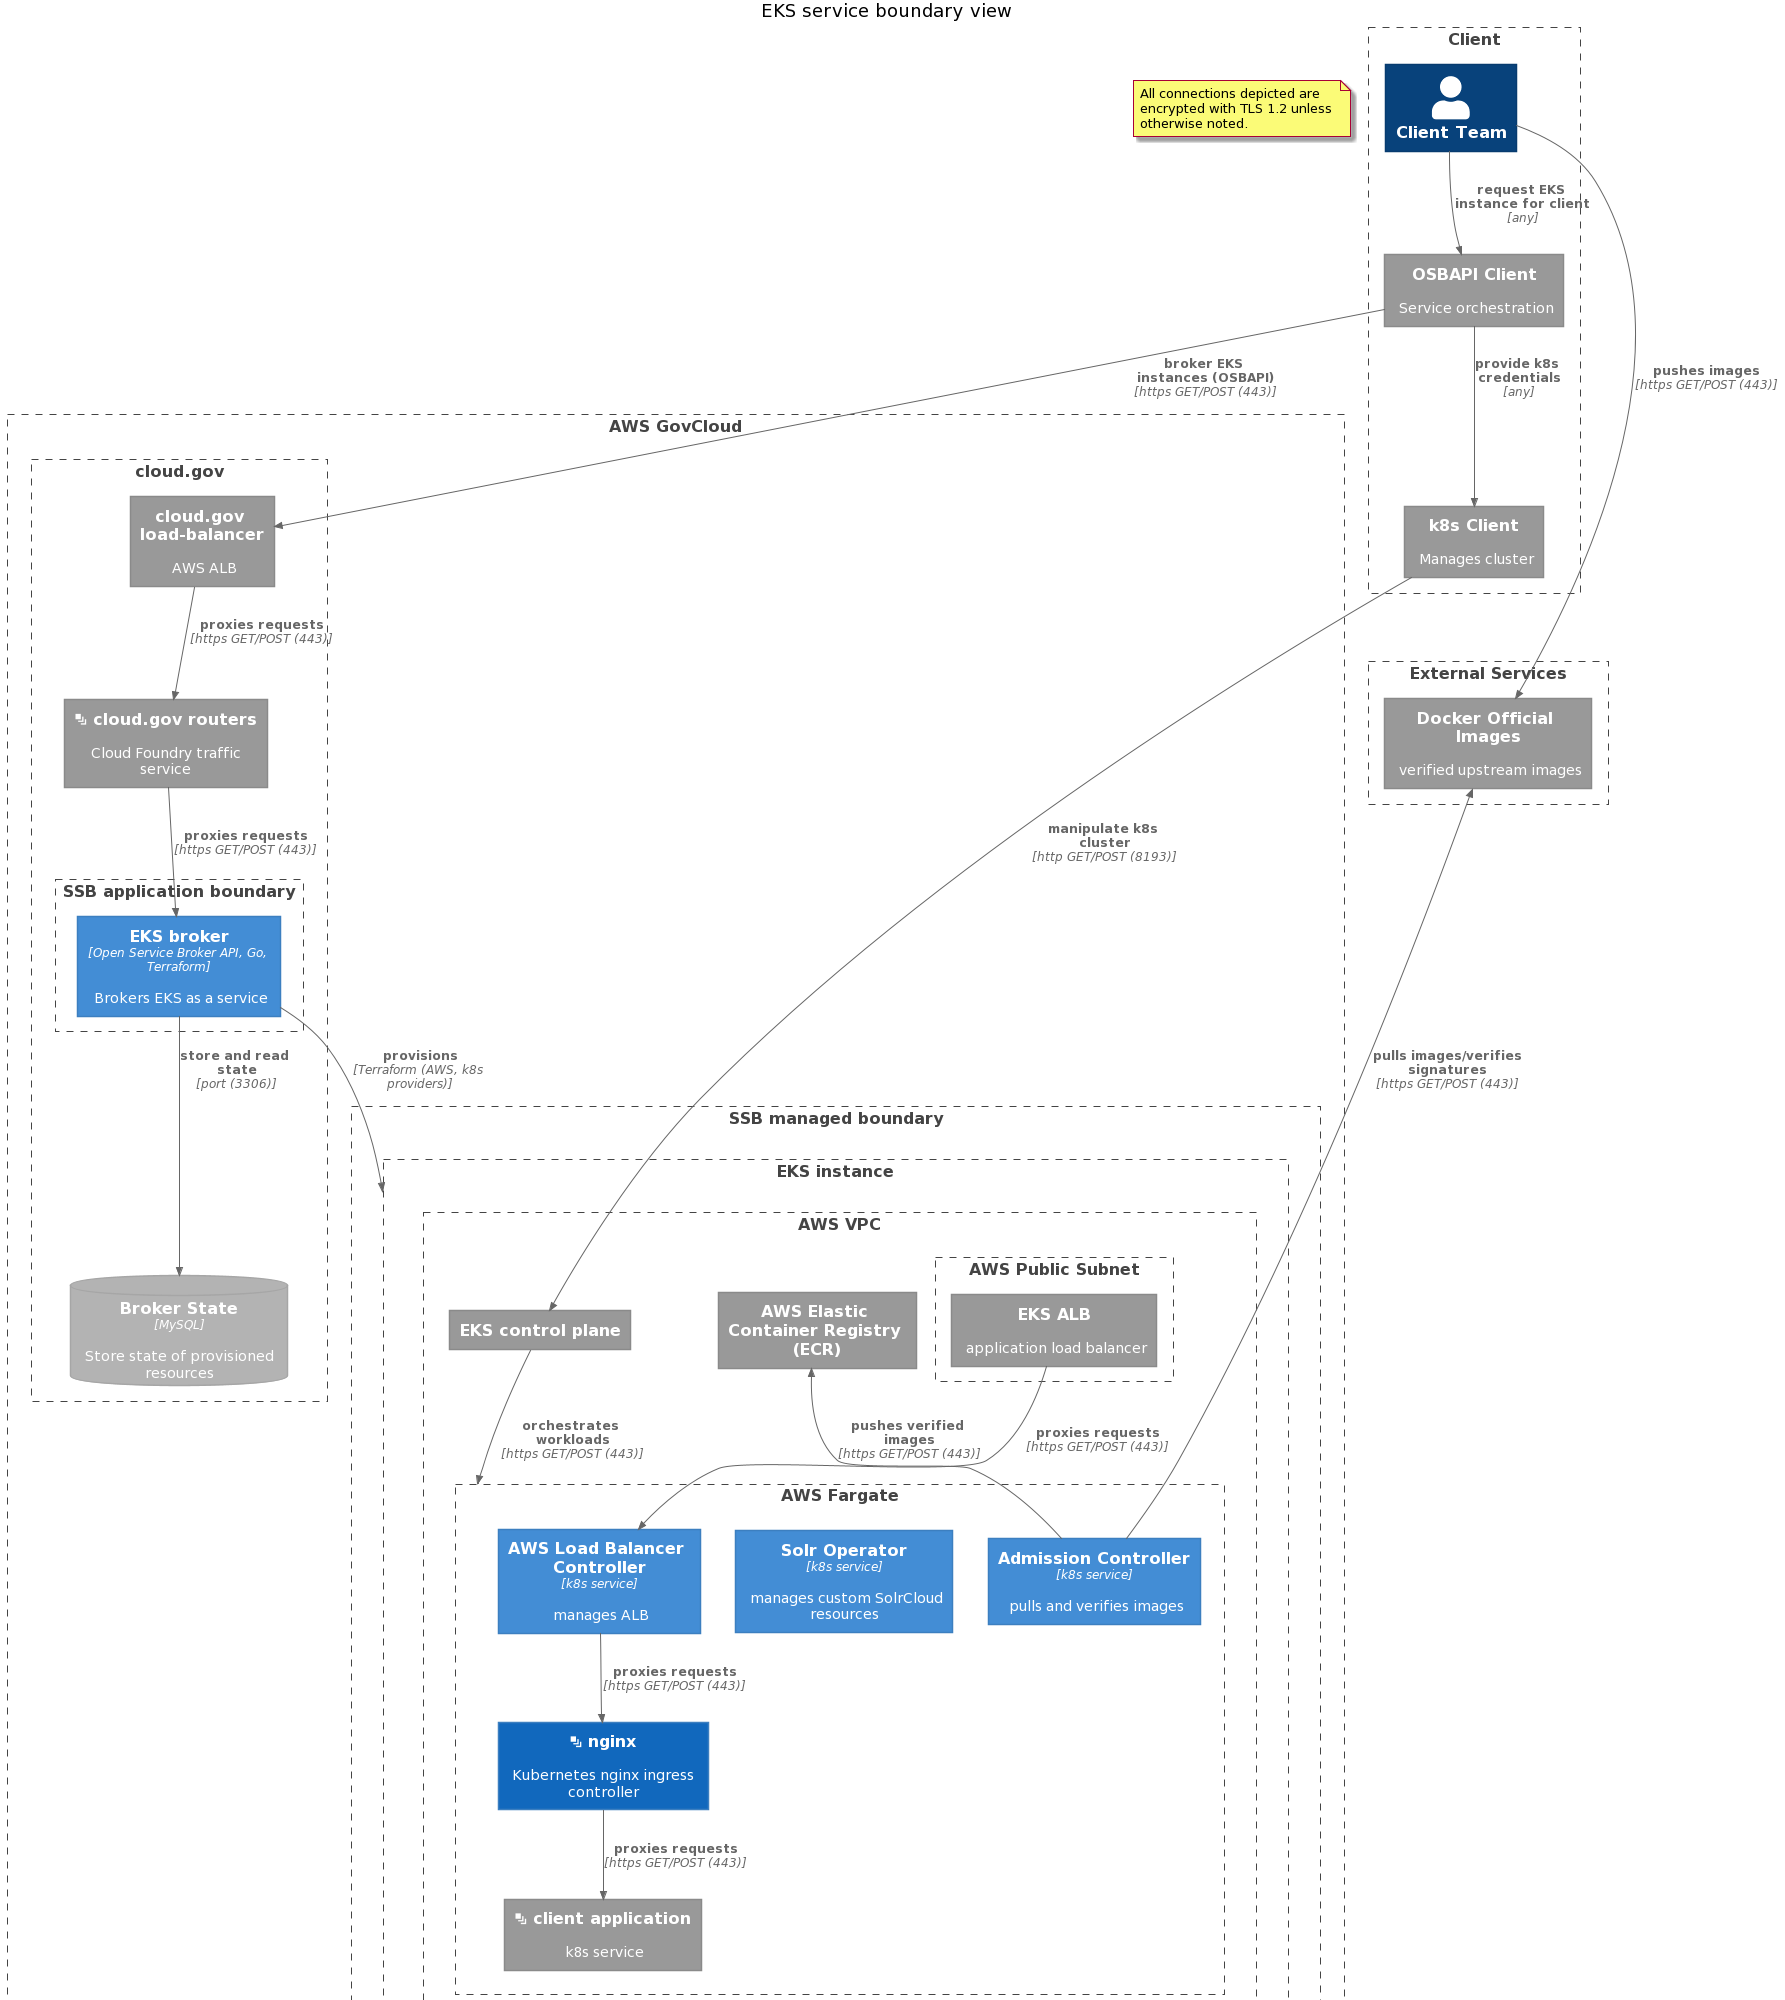
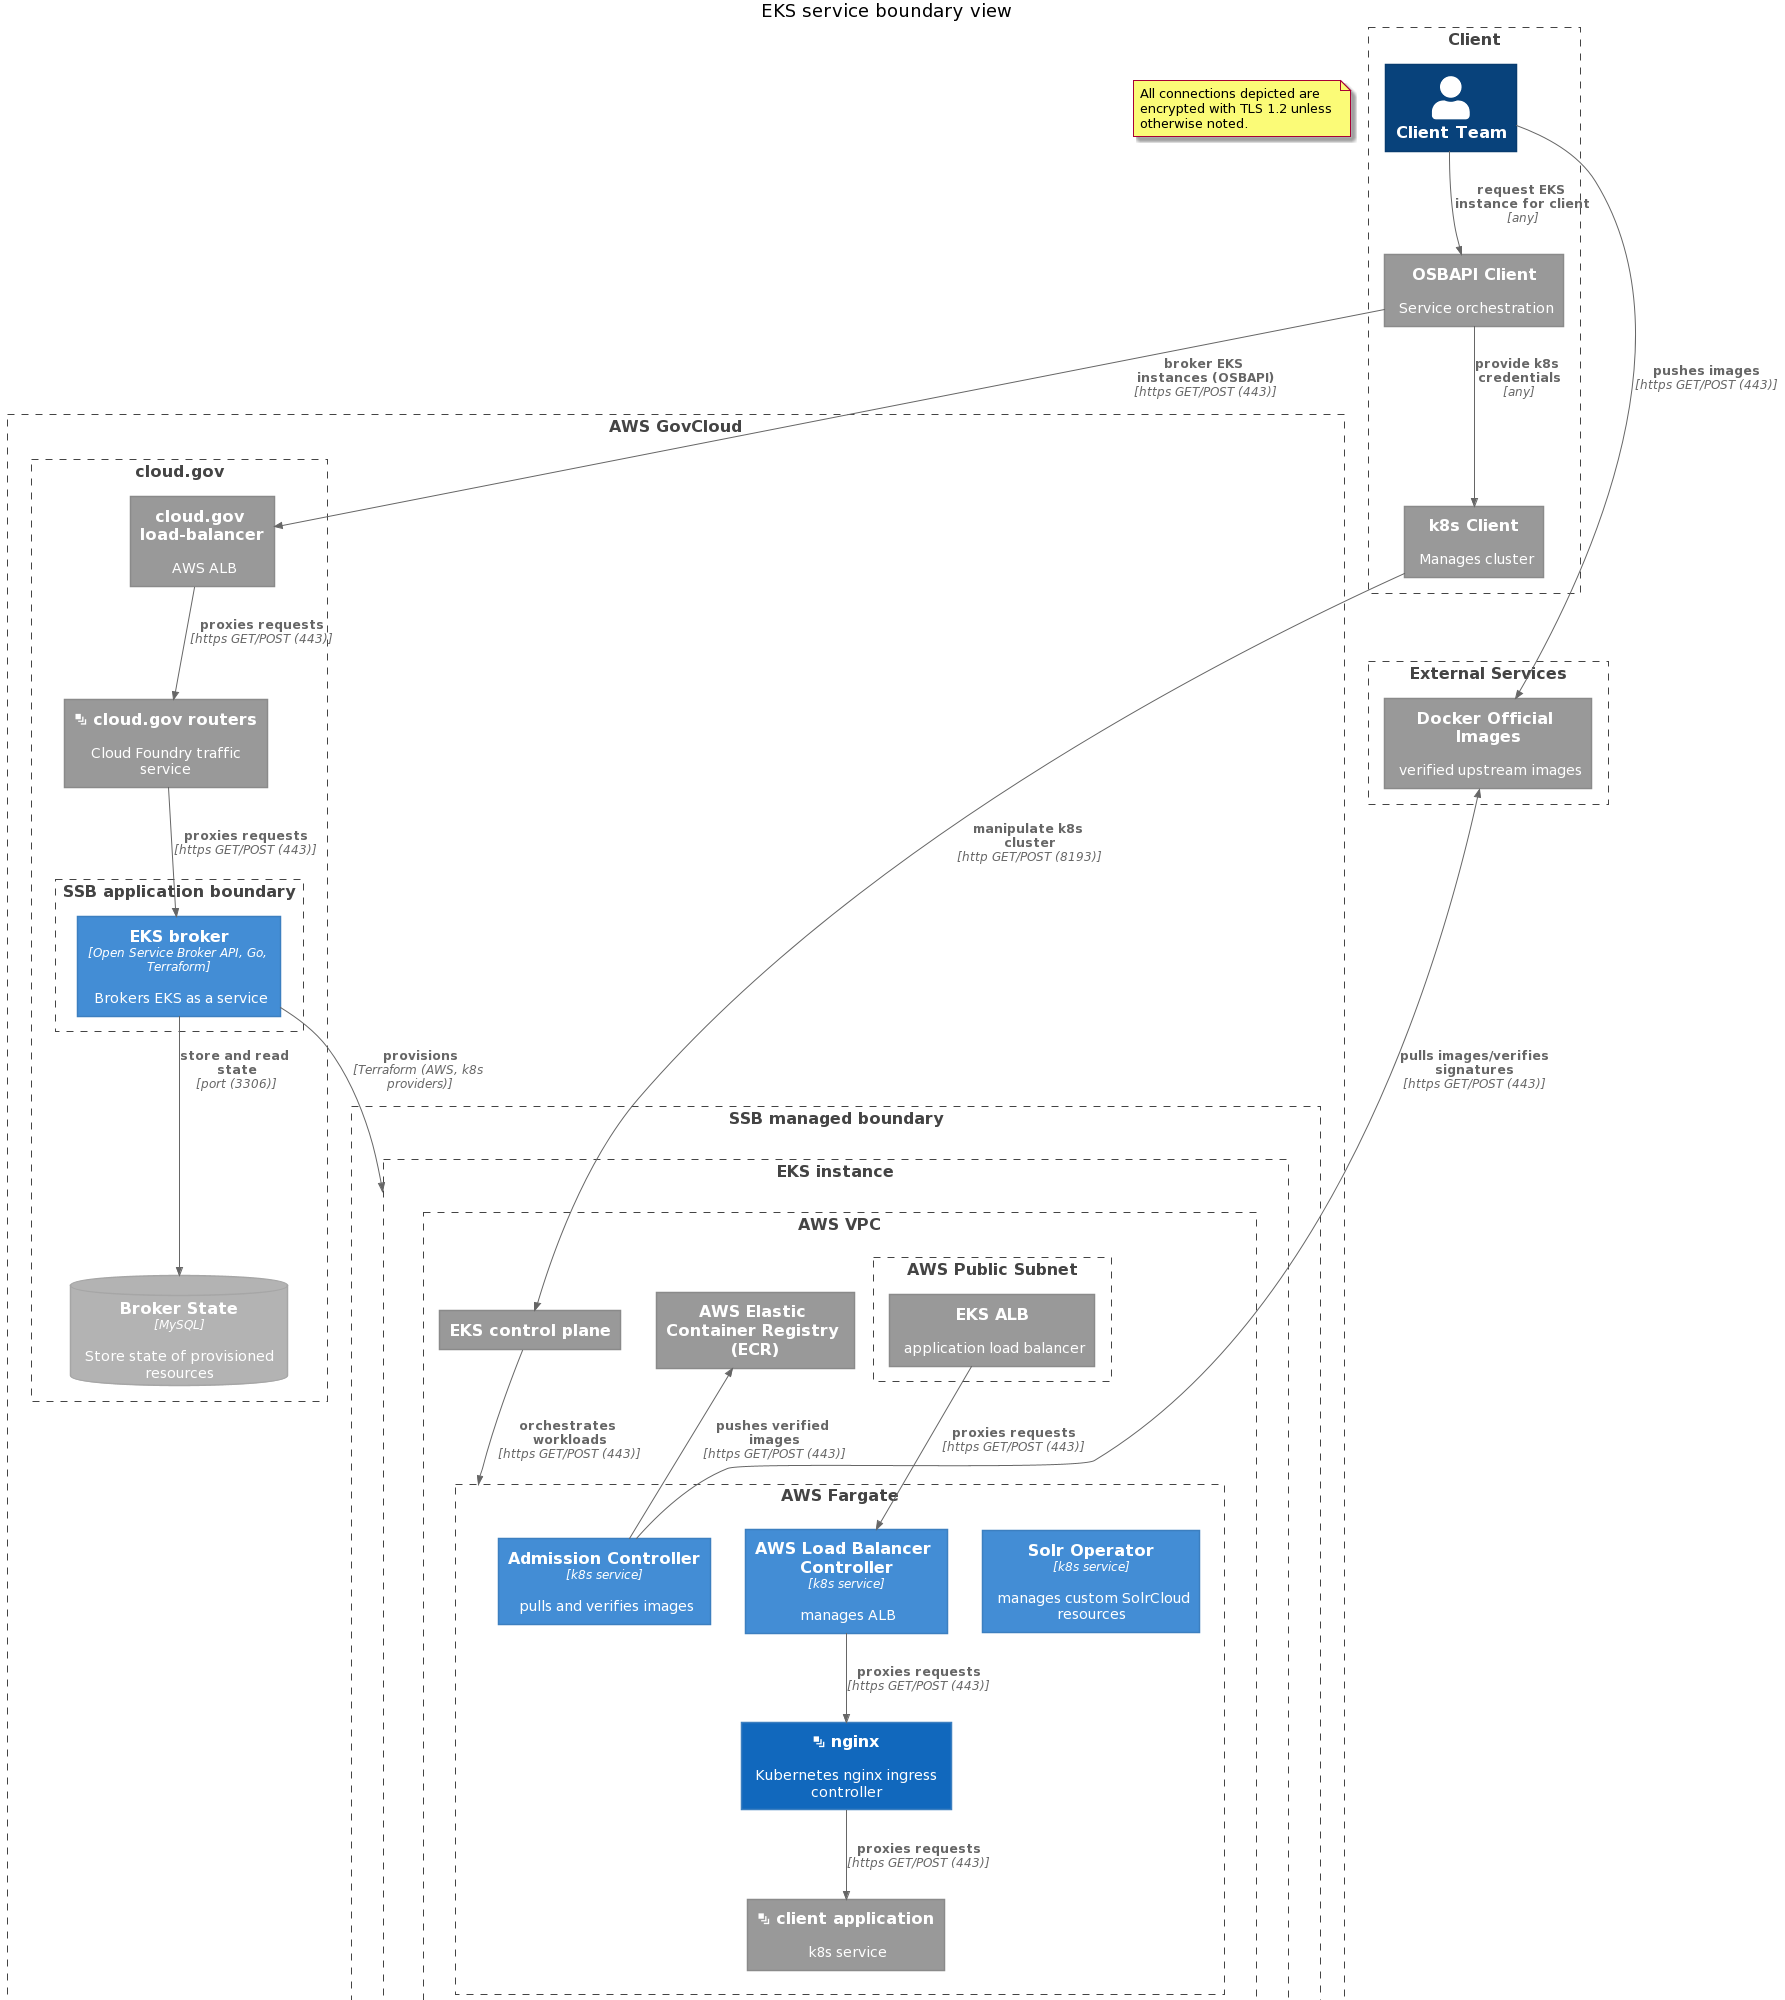
Add directions to help reduce overlap in the arrow layout

diff --git a/solr-service-scratchpad.md b/solr-service-scratchpad.md
@@ -83,9 +83,13 @@ Rel(aws_eks_alb, alb_ingress, "proxies requests", "https GET/POST (443)")
 Rel(alb_ingress, sys_eks_nginx_ingress, "proxies requests", "https GET/POST (443)")
 Rel(sys_eks_nginx_ingress, client_app, "proxies requests", "https GET/POST (443)")
 Rel(aws_eks, aws_fargate, "orchestrates workloads", "https GET/POST (443)")
-Rel(aws_fargate, aws_ecr, "pulls images", "https GET/POST (443)")
-Rel(admission_controller, docker_official_images, "pulls images/verifies signatures", "https GET/POST (443)")
-Rel(admission_controller, aws_ecr, "pushes verified images", "https GET/POST (443)")
+Rel_Up(admission_controller, docker_official_images, "pulls images/verifies signatures", "https GET/POST (443)")
+Rel(client_team, docker_official_images, "pushes images", "https GET/POST (443)")
+Rel_Up(admission_controller, aws_ecr, "pushes verified images", "https GET/POST (443)")
+
+' The following hidden line constrains the "External Services" boundary below the "Client" boundary, narrowing the 
+' diagram
+k8s_client -[hidden]- docker_official_images
 @enduml
 ```
 
